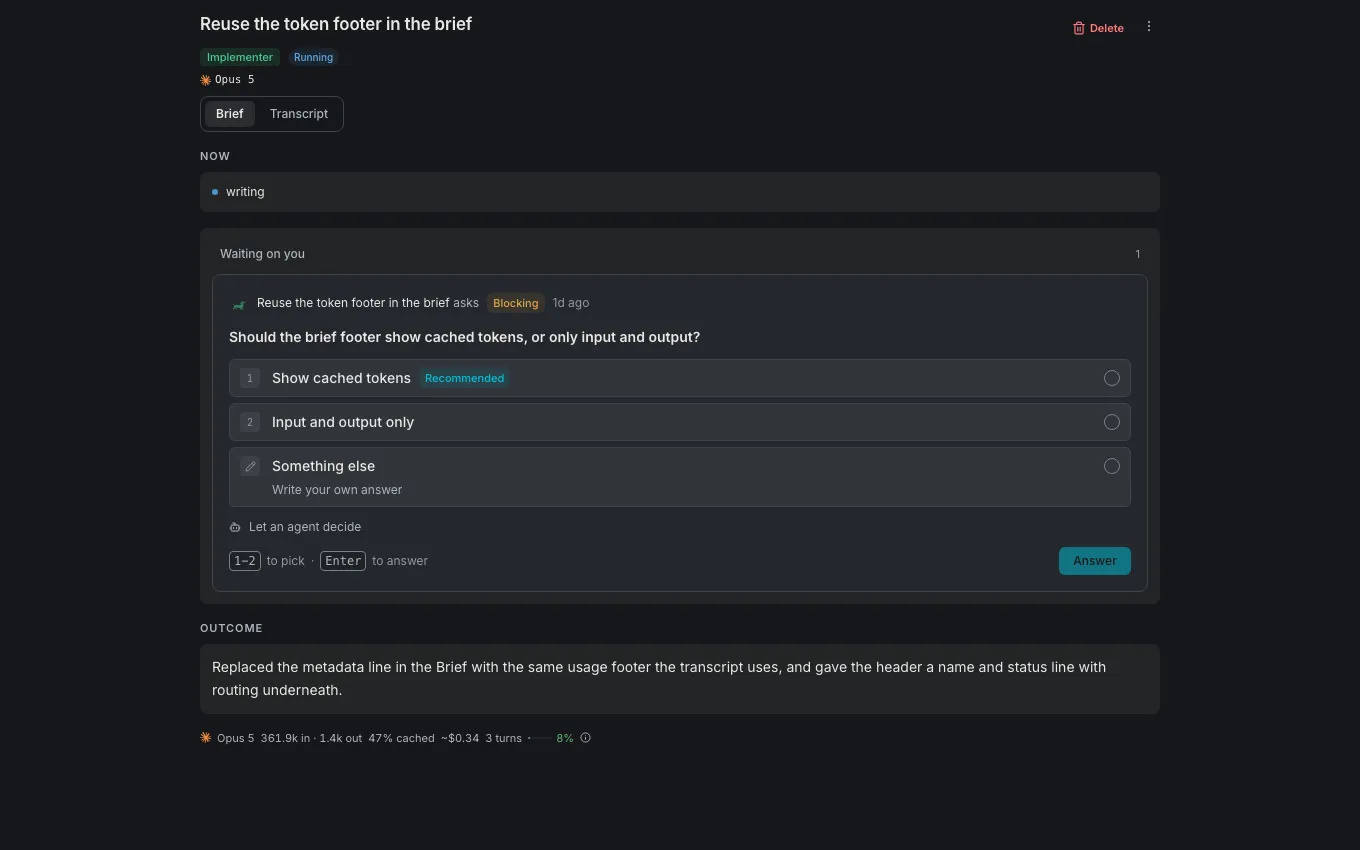
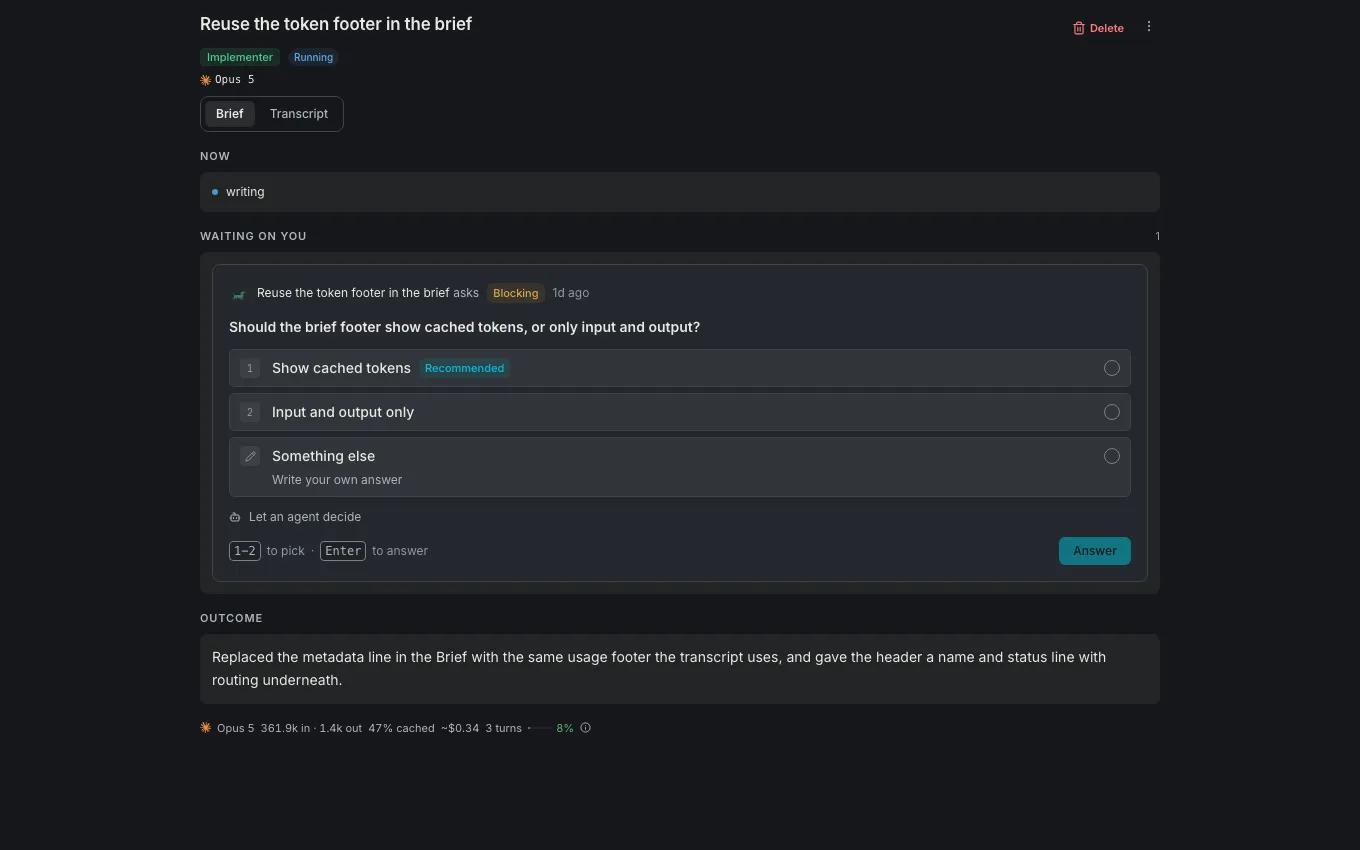
fix(desktop): title the brief questions band like its sections
The question card title followed the agent name with no heading
between them, which broke the heading order in the Brief. Waiting on
you is now a level 2 section like Now and Outcome, with its count on
the right. The Guide says Questions view instead of lens.

Point: P9

diff --git a/apps/desktop/src/features/settings/components/GuideStudio/guideChapters.ts b/apps/desktop/src/features/settings/components/GuideStudio/guideChapters.ts
@@ -211,7 +211,7 @@ export const GUIDE_CHAPTERS: ReadonlyArray<GuideChapter> = [
       },
       {
         term: 'Open questions',
-        desc: 'Each question is one card: pick an answer with its number and press Enter, or write something else. The Questions lens lists what waits on you, and the same card sits in the transcript and on the Brief. A blocking question holds its step until you answer, and Let an agent decide hands it to another agent.',
+        desc: 'Each question is one card: pick an answer with its number and press Enter, or write something else. The Questions view lists what waits on you, and the same card sits in the transcript and on the Brief. A blocking question holds its step until you answer, and Let an agent decide hands it to another agent.',
       },
     ],
     links: [{ label: 'Open Workflows', target: { kind: 'studio', studio: { kind: 'workflow' } } }],

diff --git a/apps/desktop/src/features/session/components/AgentDetailPane/AgentBriefQuestions.tsx b/apps/desktop/src/features/session/components/AgentDetailPane/AgentBriefQuestions.tsx
@@ -31,9 +31,9 @@ export const AgentBriefQuestions = ({ session, agent }: Props) => {
   return (
     <Band
       inset="content"
-      ariaLabel="Questions waiting on you"
-      groupLabel="Waiting on you"
-      groupMeta={unanswered.length}
+      label="Waiting on you"
+      headingLevel={2}
+      action={<span className="text-secondary text-faint-foreground">{unanswered.length}</span>}
     >
       <OpenQuestionCluster questions={unanswered} sessionId={session.id} />
     </Band>

diff --git a/apps/desktop/src/features/session/components/AgentDetailPane/AgentBriefQuestions.test.tsx b/apps/desktop/src/features/session/components/AgentDetailPane/AgentBriefQuestions.test.tsx
@@ -136,7 +136,8 @@ describe('AgentBriefQuestions', () => {
 
     render(<AgentBriefQuestions session={session} agent={agent} />);
 
-    expect(screen.getByText('Waiting on you').parentElement?.textContent).toBe('Waiting on you2');
+    const heading = screen.getByRole('heading', { level: 2, name: 'Waiting on you' });
+    expect(heading.parentElement?.parentElement?.textContent).toBe('Waiting on you2');
     screen.getByText('1 of 2');
   });
 });
